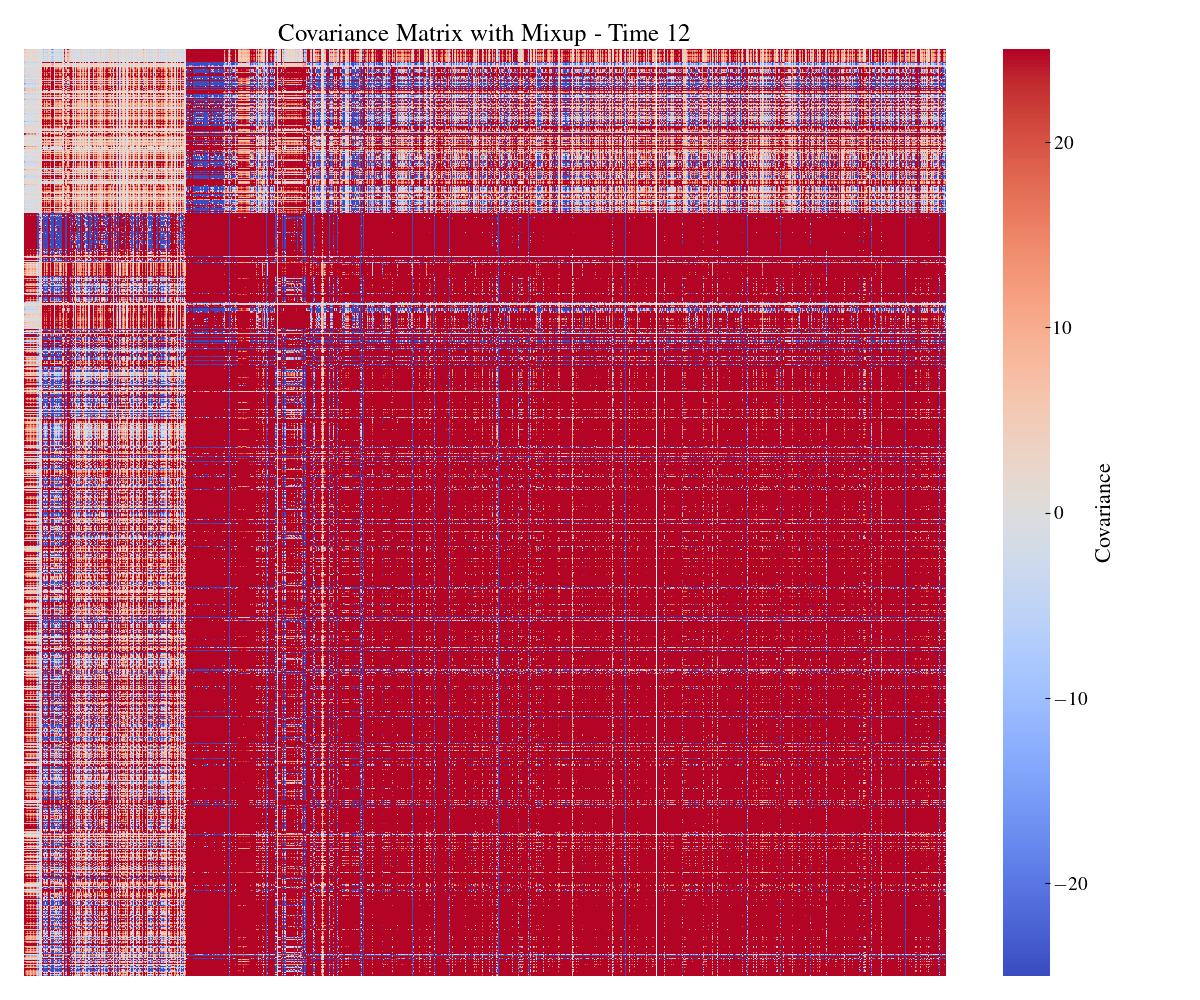
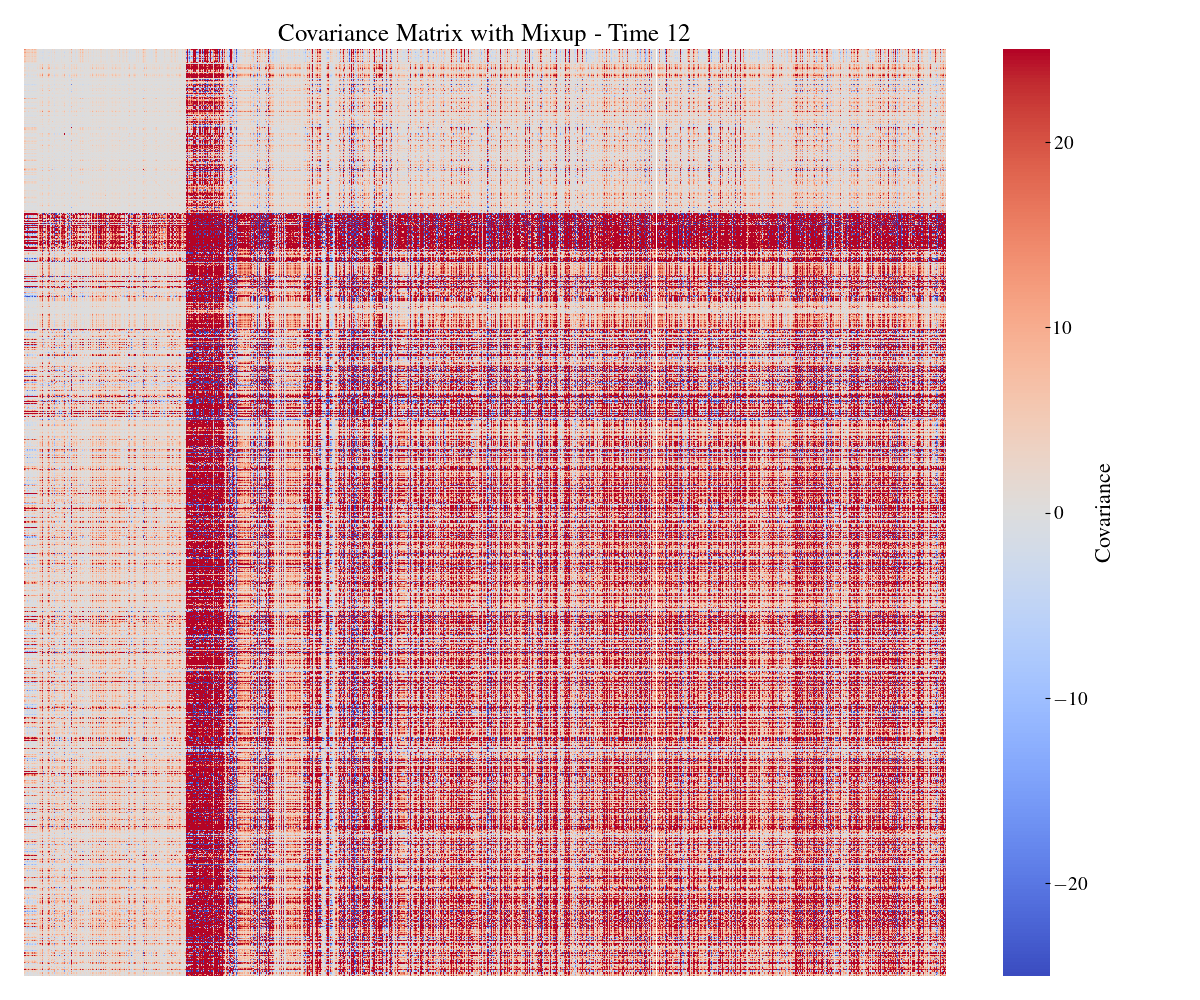
y = pivot.loc[target_hour].values

diff --git a/covariance_matrix_mixup_restricted.py b/covariance_matrix_mixup_restricted.py
@@ -70,11 +70,15 @@ for _, row in df_list.iterrows():
             continue  # データ不足
 
         # xは時間だが1行のみになるので不要、yが平均値の配列（axis=1方向）、yerrが標準偏差
-        x, y, yerr = calc_hourly_stats(pivot)
-        if y is not None and len(y) > 0:
-            consumer_profiles_by_contract[contract_type].append((x, y, yerr, consumer_name, year))
+#        x, y, yerr = calc_hourly_stats(pivot)
+#        if y is not None and len(y) > 0:
+#            consumer_profiles_by_contract[contract_type].append((x, y, yerr, consumer_name, year))
+#            file_valid = True
+        if target_hour in pivot.index and pivot.shape[1] == target_days:
+            y = pivot.loc[target_hour].values  # ← ここが変更の主眼、shape=(61,)
+            consumer_profiles_by_contract[contract_type].append((None, y, None, consumer_name, year))
             file_valid = True
-
+    
     if not file_valid:
         excluded_files.append(f"{file_name}（データ不足または対象期間なし）")
 
